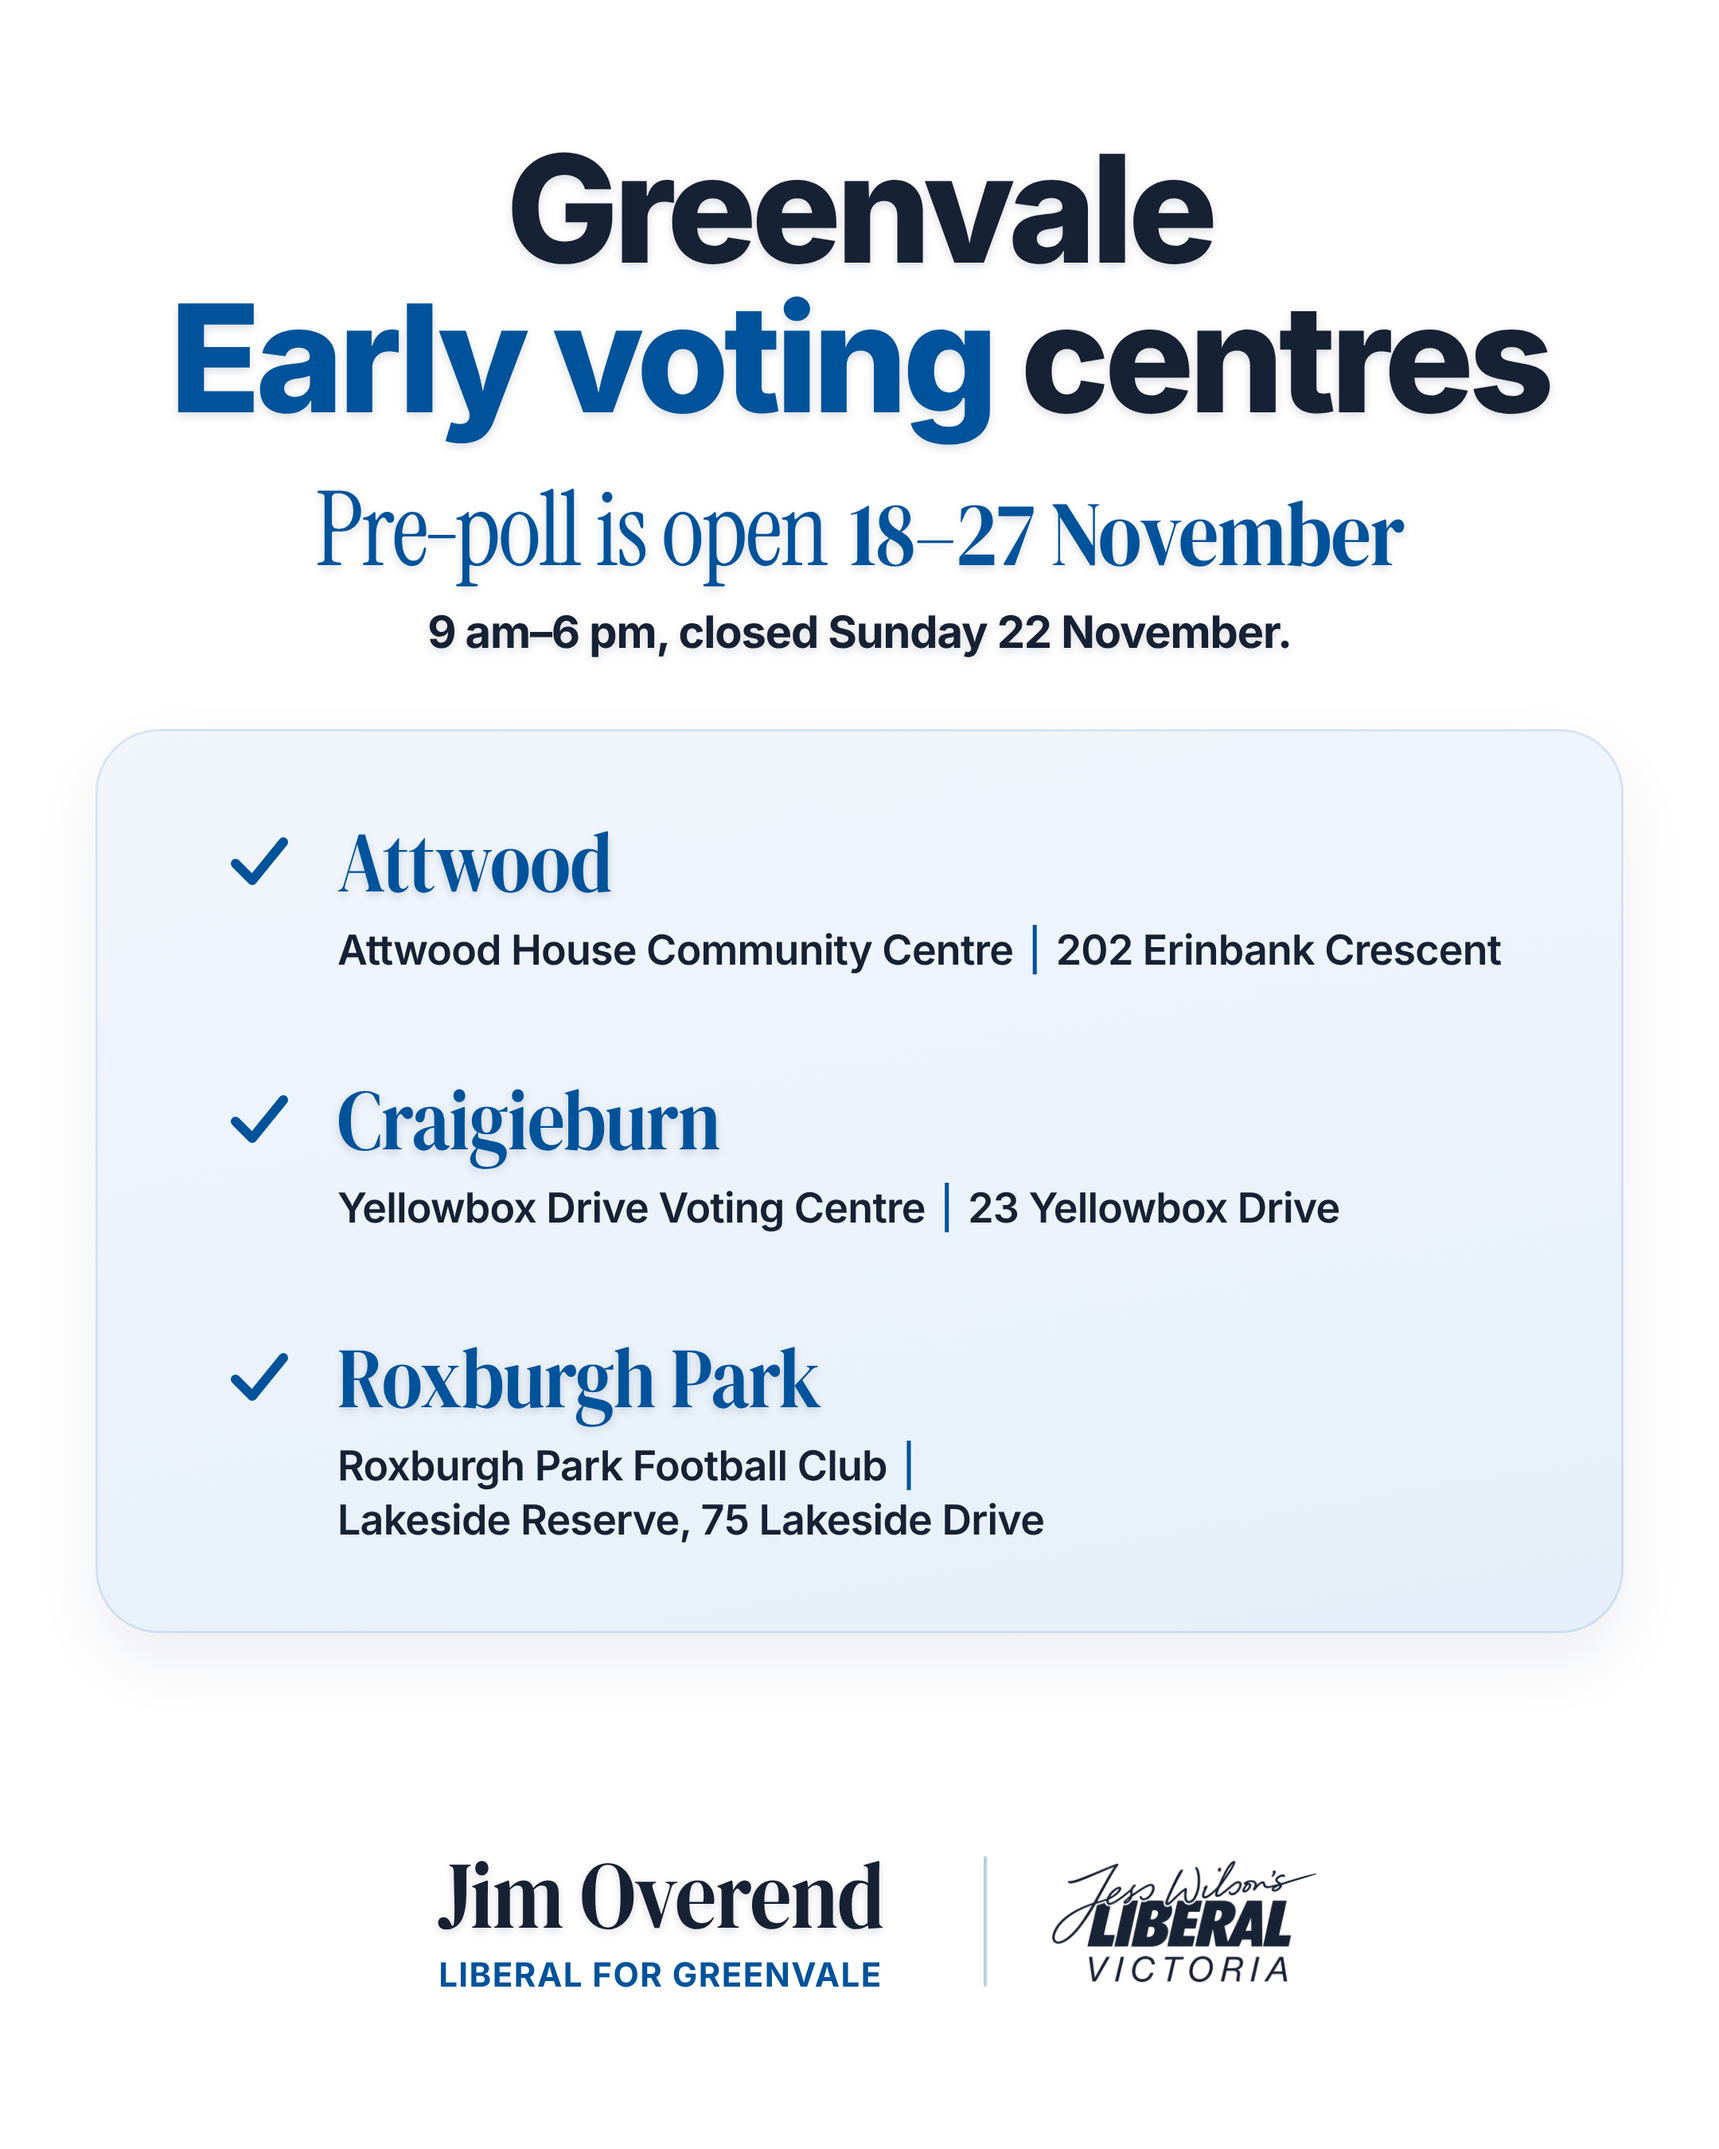
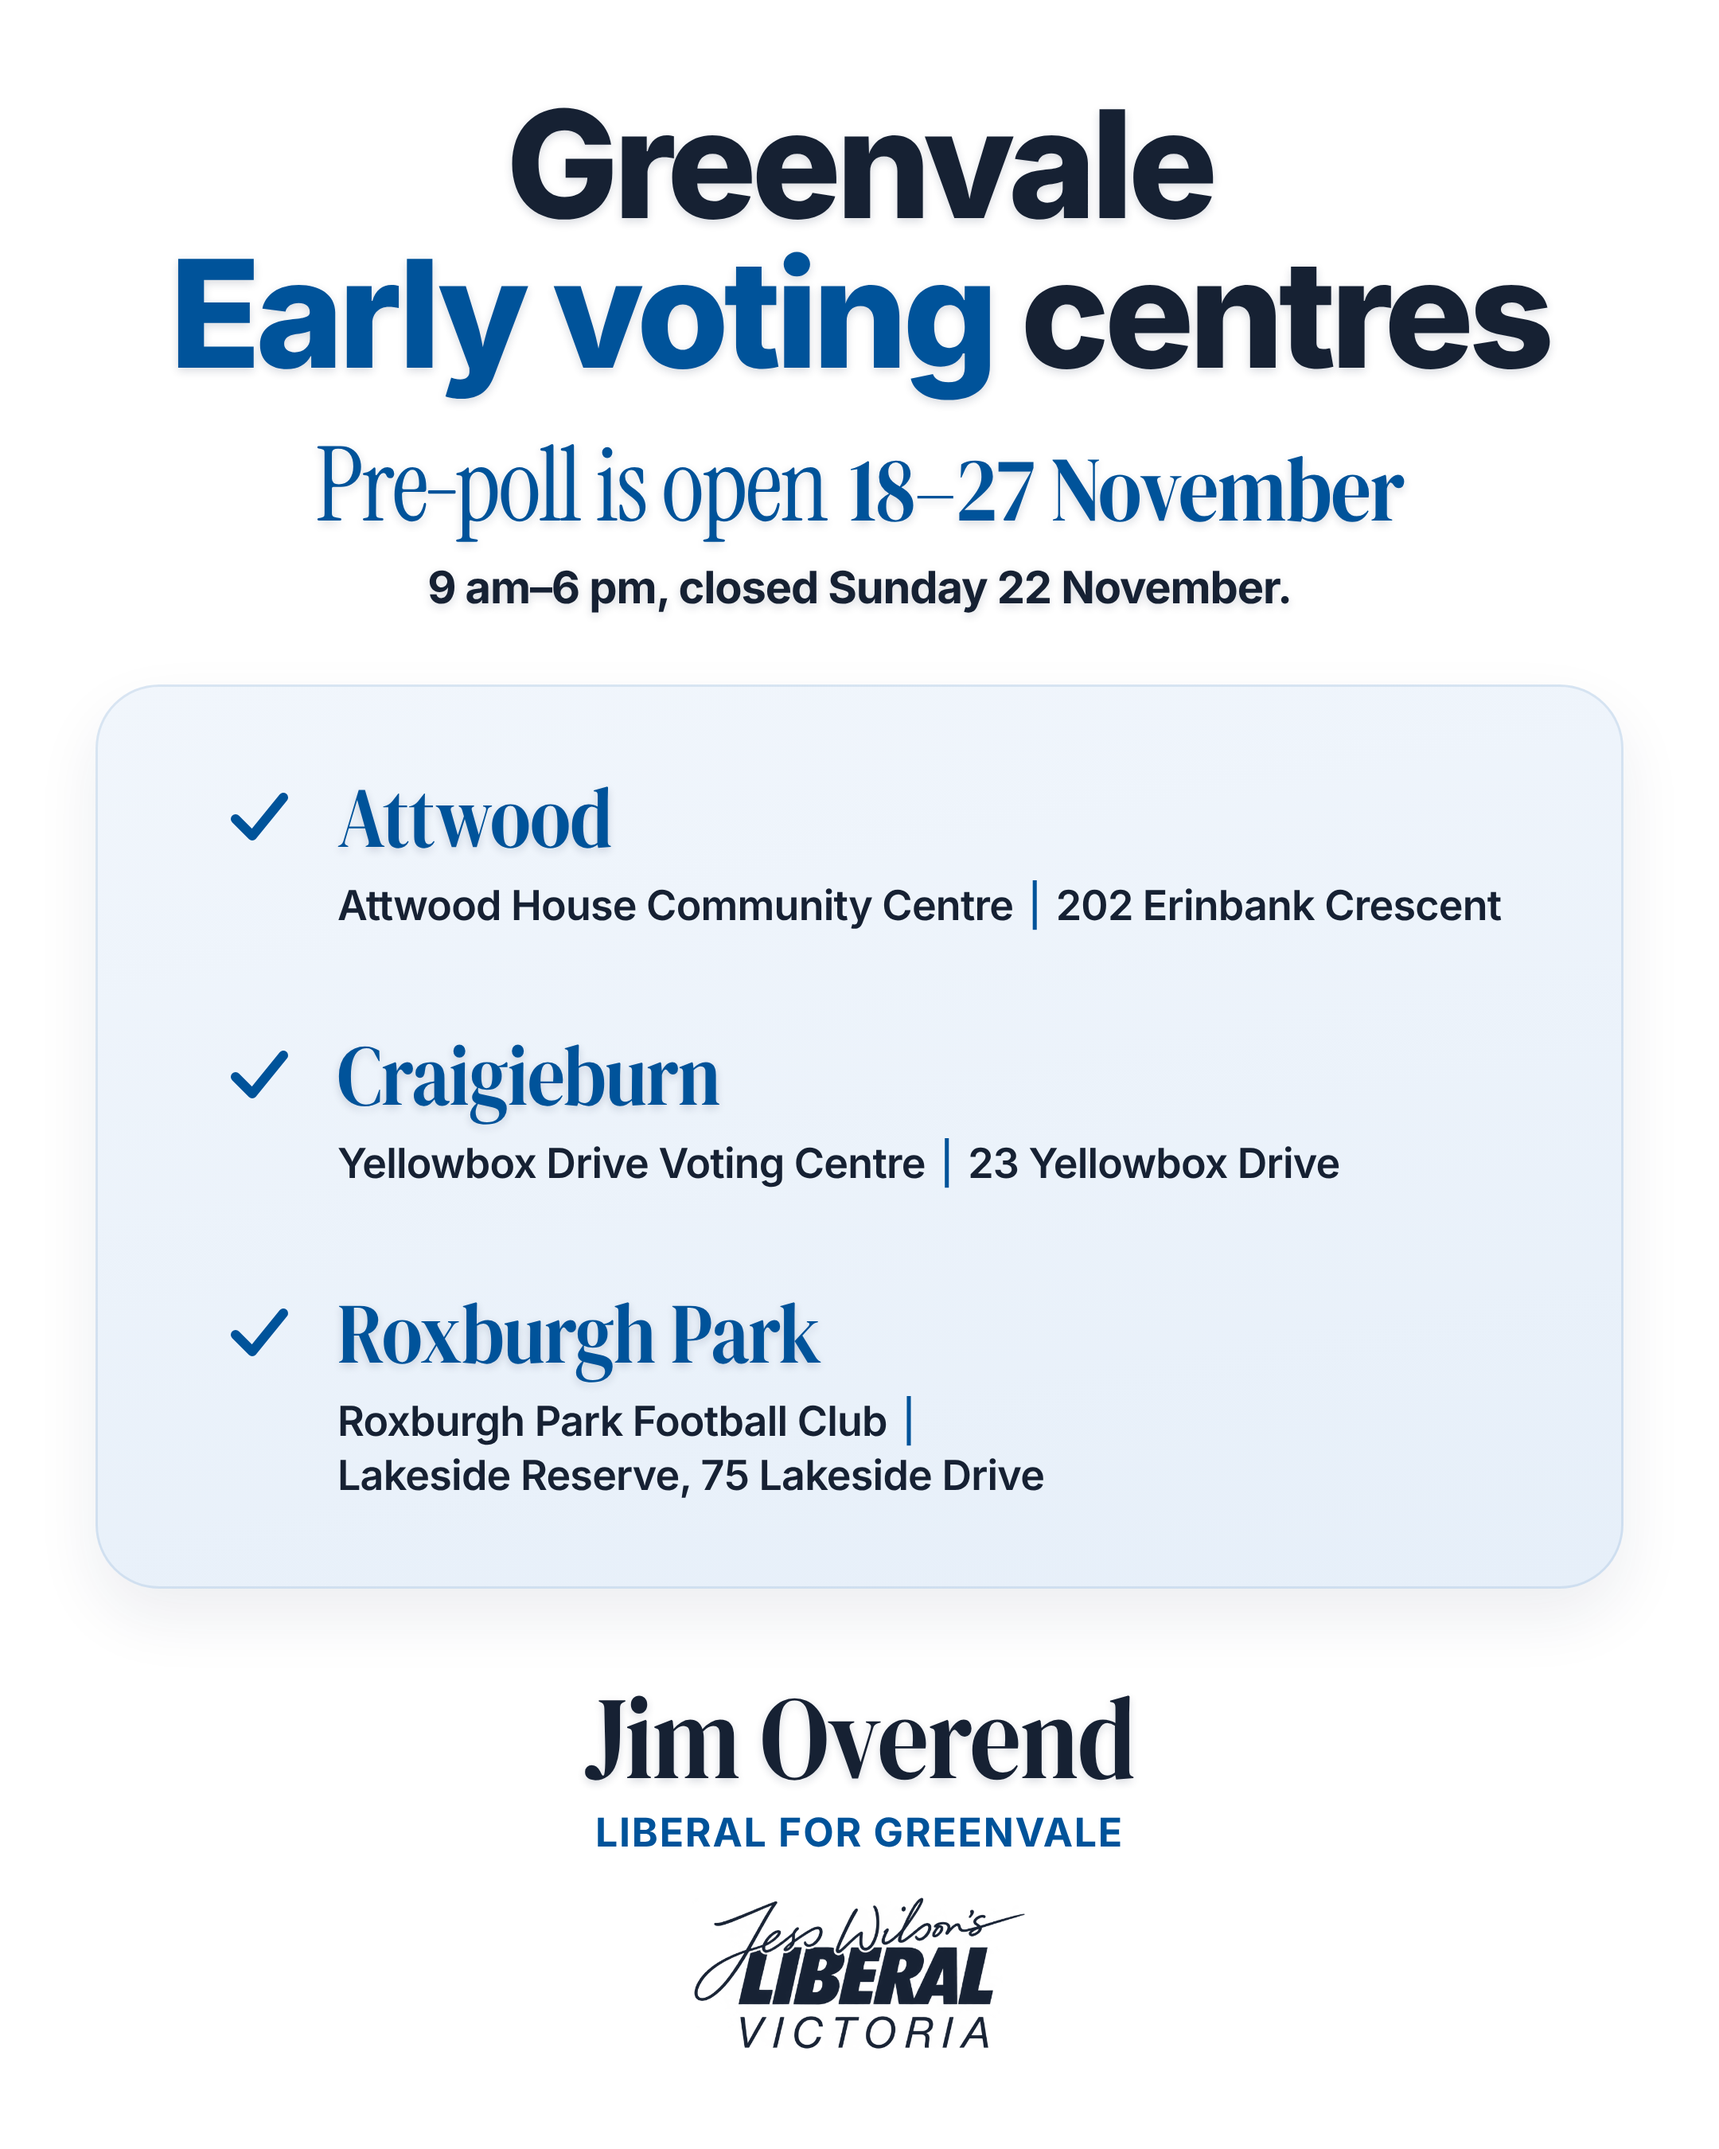
Early voting panel card: larger stacked footer, no divider
Remove the divider, stack the name block above the logo on the centre
line, and enlarge both (name 60->74px, logo 168->210px wide); content
above nudged up to keep margins even.

Claude-Session: https://claude.ai/code/session_01MT6wivusBEagFnhed7SAun

diff --git a/designs/greenvale-early-voting/source/early-voting-panel.html b/designs/greenvale-early-voting/source/early-voting-panel.html
@@ -29,9 +29,8 @@ h1 .acc{color:var(--blue)}
 .v .sub{font-family:"Serif Bold";color:var(--blue);line-height:1;letter-spacing:-.01em;transform:scaleX(.86);transform-origin:0 50%;white-space:nowrap;text-shadow:var(--shadow)}
 .v .det{margin-top:12px;font-family:"Inter";font-weight:600;color:var(--navy);letter-spacing:-.015em;line-height:1.32}
 .v .det .bar{color:var(--blue);font-weight:500;margin:0 .35em}
-#footer{left:0;right:0;display:flex;justify-content:center;align-items:center;gap:40px}
+#footer{left:0;right:0;display:flex;flex-direction:column;align-items:center;gap:var(--fgap,26px)}
 #name{text-align:center}
-#divider{width:2px;align-self:stretch;margin:6px 0;background:rgba(0,83,154,.28);border-radius:1px}
 #name .n{font-family:"Serif Bold";color:var(--navy);line-height:1;letter-spacing:-.01em;white-space:nowrap;text-shadow:var(--shadow);
   display:inline-block;transform:scaleX(.86)}
 #name .r{margin-top:8px;font-family:"Inter";font-weight:700;color:var(--blue);letter-spacing:.035em;text-transform:uppercase;line-height:1.25}
@@ -44,27 +43,26 @@ h1 .acc{color:var(--blue)}
   <div id="list"></div>
   <div id="footer" class="abs">
     <div id="name"><div class="n"></div><div class="r"></div></div>
-    <div id="divider"></div>
     <img id="logo" src="logo-navy.png" alt="Jess Wilson's Liberal Victoria">
   </div>
 </div>
 <script>
 const P = Object.assign({
   // Defaults = the published layout. Override any key via ?p={"key":value} (see render.js).
-  head:'Greenvale<br><span class="acc">Early voting</span> centres', hTop:84, hSize:94,
-  dates:'<span class="lt">Pre<span style="margin:0 -.07em">-</span>poll is open</span> <span class="bd">18–27 November</span>', dTop:298, dSize:58,
-  hours:'9 am–6 pm, closed Sunday 22 November.', hrTop:380, hrSize:28,
-  panel:[60,458,960,568],                  // left, top, width, height
+  head:'Greenvale<br><span class="acc">Early voting</span> centres', hTop:56, hSize:94,
+  dates:'<span class="lt">Pre<span style="margin:0 -.07em">-</span>poll is open</span> <span class="bd">18–27 November</span>', dTop:270, dSize:58,
+  hours:'9 am–6 pm, closed Sunday 22 November.', hrTop:352, hrSize:28,
+  panel:[60,430,960,568],                  // left, top, width, height
   // venues: [suburb, venue, address, left, top, width] — one centred column; long lines wrap after the bar
   venues:[
-    ['Attwood','Attwood House Community Centre','202 Erinbank Crescent',140,514,820],
-    ['Craigieburn','Yellowbox Drive Voting Centre','23 Yellowbox Drive',140,676,820],
-    ['Roxburgh Park','Roxburgh Park Football Club','Lakeside Reserve, 75 Lakeside Drive',140,838,820],
+    ['Attwood','Attwood House Community Centre','202 Erinbank Crescent',140,486,820],
+    ['Craigieburn','Yellowbox Drive Voting Centre','23 Yellowbox Drive',140,648,820],
+    ['Roxburgh Park','Roxburgh Park Football Club','Lakeside Reserve, 75 Lakeside Drive',140,810,820],
   ],
   subSize:54, detSize:26,
-  footerTop:1160,
-  name:{size:60, text:'Jim Overend', role:'Liberal for Greenvale', roleSize:21},
-  logoW:168
+  footerTop:1054, footerGap:24,
+  name:{size:74, text:'Jim Overend', role:'Liberal for Greenvale', roleSize:25},
+  logoW:210
 }, JSON.parse(new URLSearchParams(location.search).get('p')||'{}'));
 const $=id=>document.getElementById(id), px=v=>v+'px';
 Object.assign($('h').style,{top:px(P.hTop),fontSize:px(P.hSize)}); $('h').innerHTML=P.head;
@@ -77,7 +75,7 @@ $('list').innerHTML=P.venues.map(([s,v,a,x,y,w])=>`<div class="v" style="left:${
   <div class="det" style="font-size:${P.detSize}px">${v}<span class="bar">|</span>${(v+a).length>60?'<br>':''}${a}</div></div></div>`).join('');
 document.fonts.ready.then(()=>document.querySelectorAll('.serif .bd').forEach(el=>{
   const w=el.offsetWidth, m=-(w*(1-0.86)/2); el.style.marginLeft=el.style.marginRight=m+'px'; }));
-const N=P.name; $('footer').style.top=px(P.footerTop);
+const N=P.name; $('footer').style.top=px(P.footerTop); $('footer').style.setProperty('--fgap',px(P.footerGap));
 $('name').querySelector('.n').innerHTML=N.text; $('name').querySelector('.n').style.fontSize=px(N.size);
 $('name').querySelector('.r').innerHTML=N.role; $('name').querySelector('.r').style.fontSize=px(N.roleSize);
 $('logo').style.width=px(P.logoW);

diff --git a/designs/greenvale-early-voting/README.md b/designs/greenvale-early-voting/README.md
@@ -7,8 +7,8 @@ numbered pins, a matching numbered venue list, and the Jess Wilson's Liberal Vic
 - `greenvale-early-voting-panel.png` / `@2x` — **latest: 1080×1350 card, "Early Voting centres" reference
   layout in the light style, symmetrical (no candidate photo)**: heading "Greenvale / *Early voting* centres"
   (Inter ExtraBold, "Early voting" in blue), serif dates line, pale-blue rounded panel with blue ticks, suburb
-  in condensed serif and "venue | address" in navy sans in one centred column, and a centred footer of
-  "Jim Overend / LIBERAL FOR GREENVALE" | navy Liberal Victoria logo. Source: `source/early-voting-panel.html`
+  in condensed serif and "venue | address" in navy sans in one centred column, and a larger centred
+  footer stacking "Jim Overend / LIBERAL FOR GREENVALE" above the navy Liberal Victoria logo. Source: `source/early-voting-panel.html`
   (`node render.js '{}' early-voting-panel.html greenvale-early-voting-panel`).
 - `greenvale-early-voting-light.png` / `@2x` — 1080×1350 light card after the "Postal" reference:
   white ground, heavy navy Inter ExtraBold heading, blue condensed serif (Instrument Serif light + DM Serif
